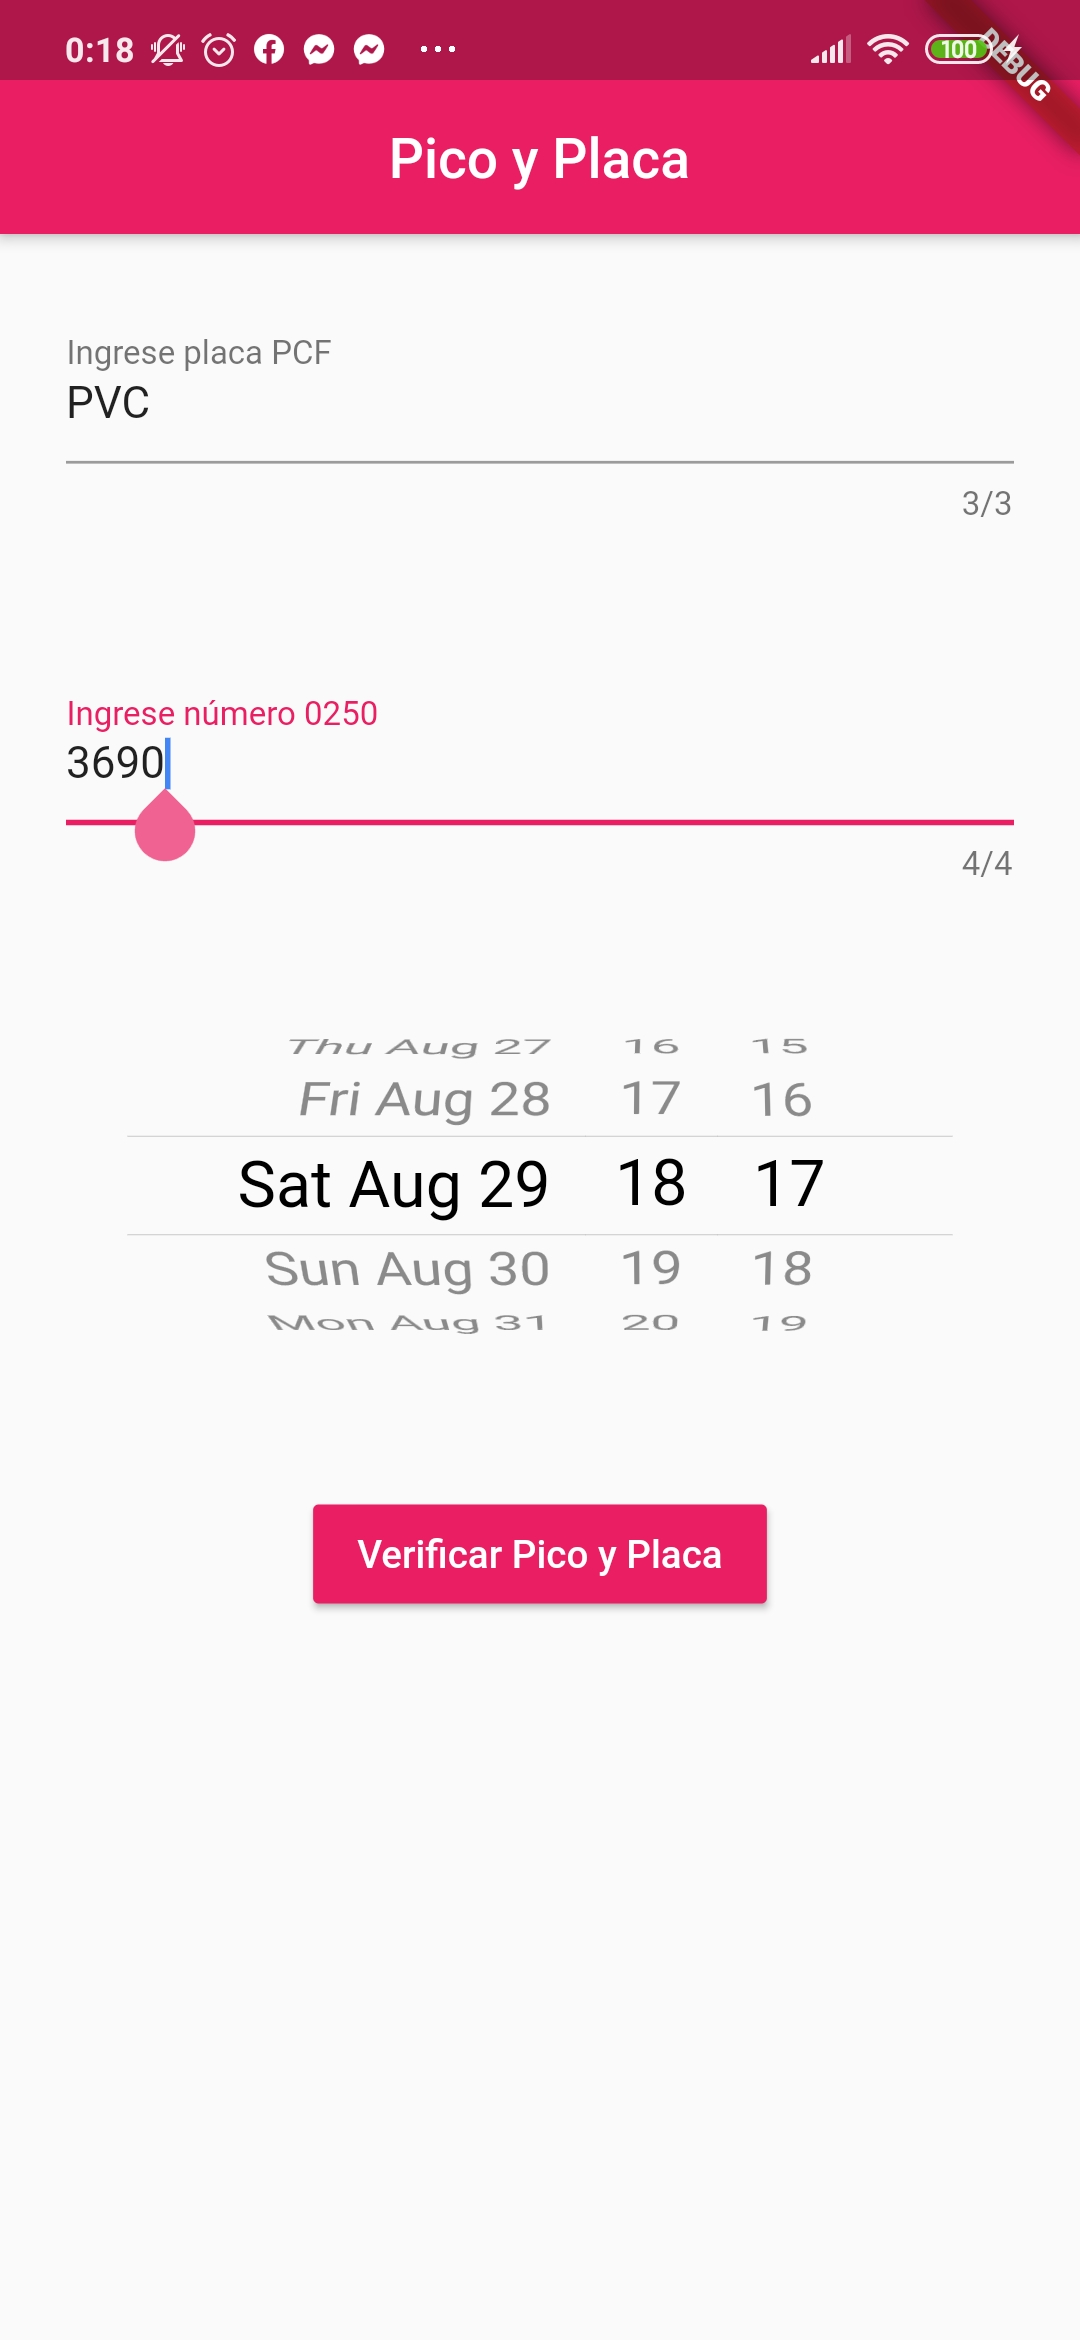
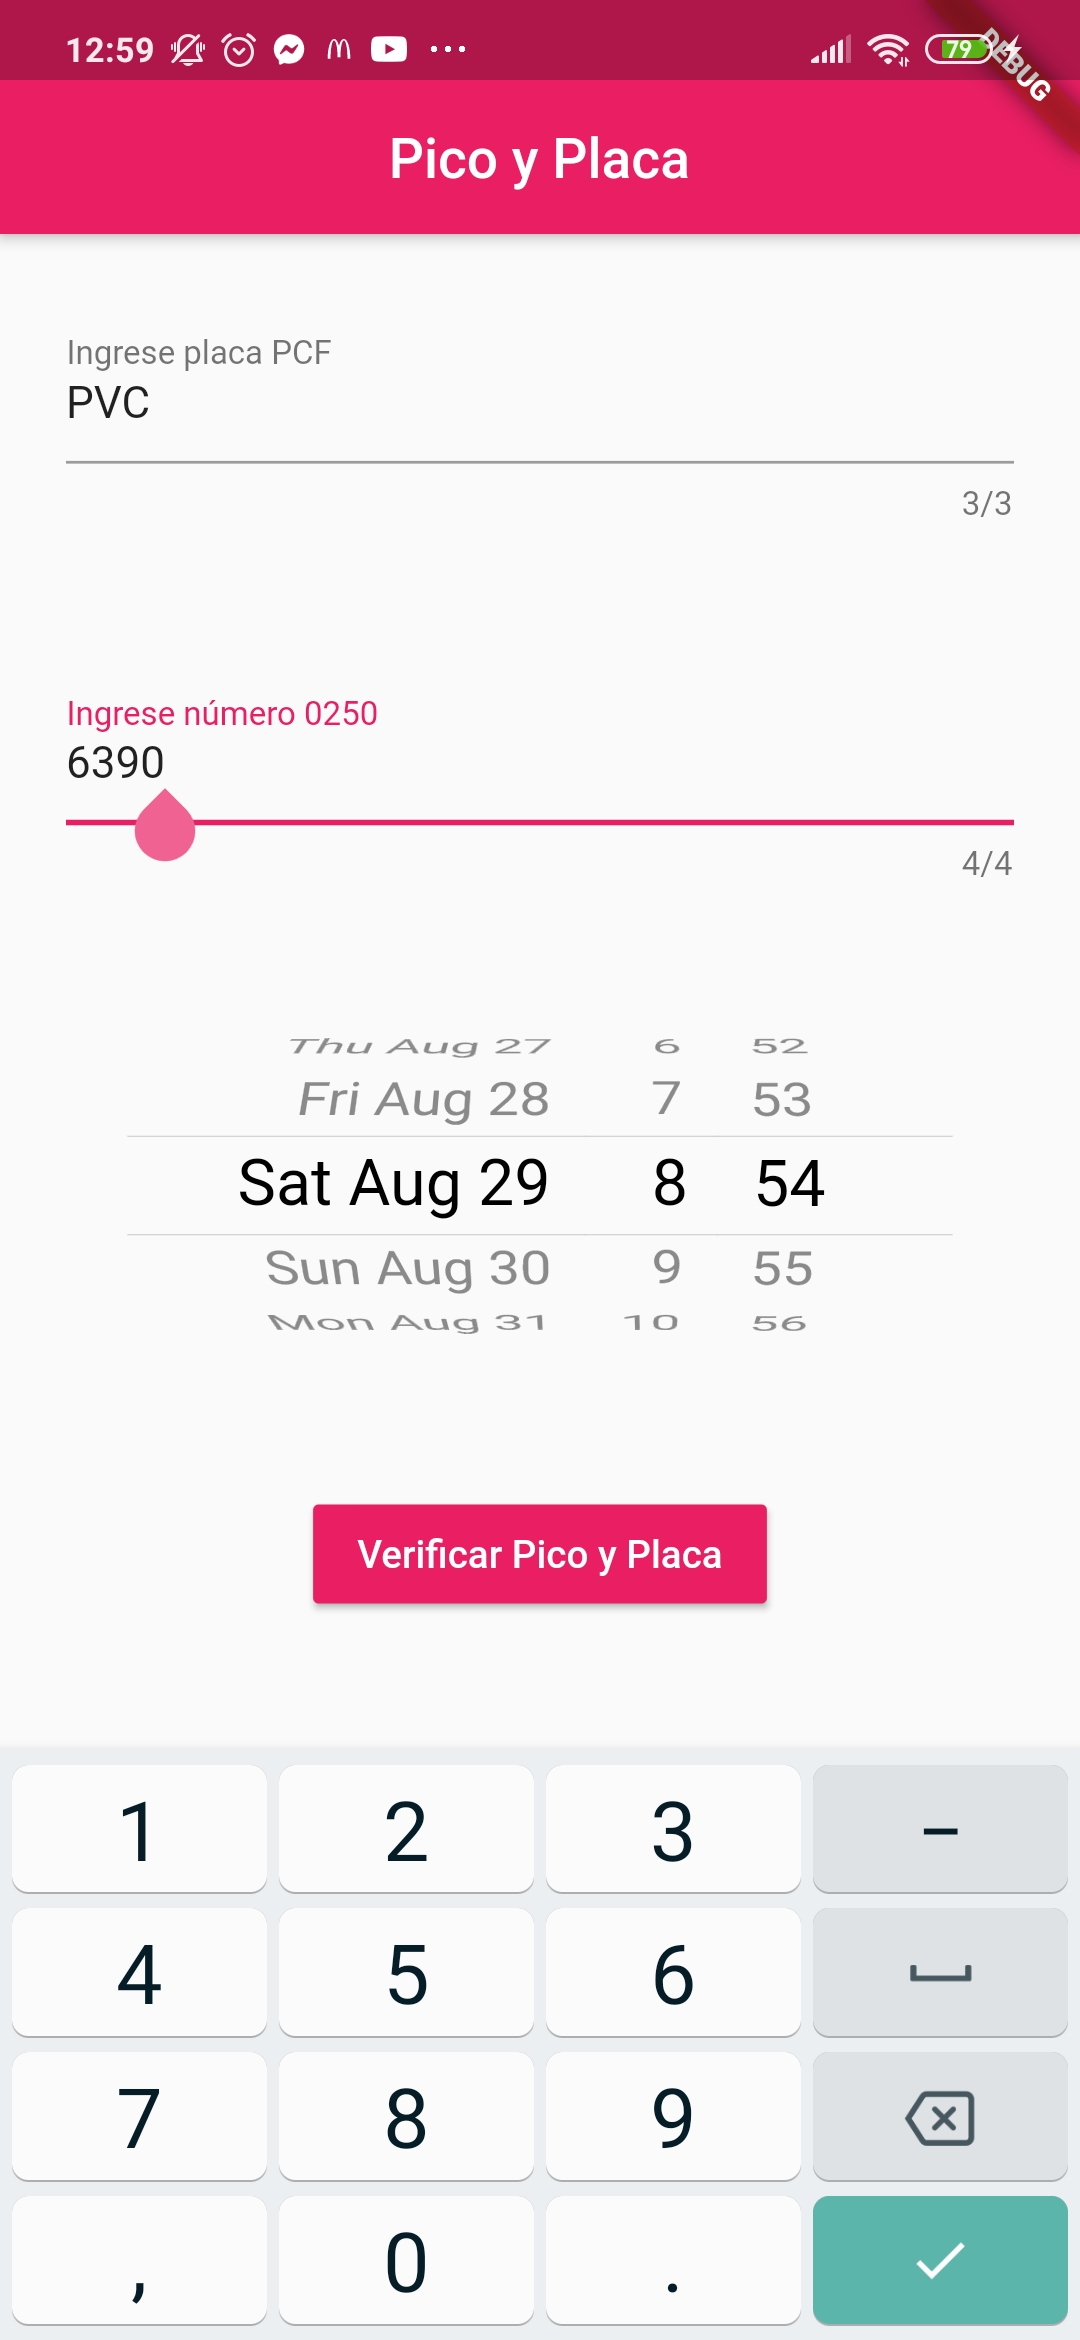
New Hours Pico Placa

diff --git a/lib/model/pico_placa_validator.dart b/lib/model/pico_placa_validator.dart
@@ -4,60 +4,70 @@ import 'package:picoplaca/common_widgets/platform_alert_dialog.dart';
 
 class PicoPlacaValidator {
   void picoPlaca(String placa, DateTime date, BuildContext context) {
-    if (date.weekday == 6 || date.weekday == 7) {
-      messageDialog(true, '', context);
-    } else if (date.hour < 5 || date.hour > 20) {
+    if ((date.weekday == 6 || date.weekday == 7) ||
+        !((date.hour >= 7) && (Duration(hours: date.hour, minutes: date.minute) <=Duration(hours: 9, minutes: 30)) 
+        ||((date.hour >= 16 &&(Duration(hours: date.hour, minutes: date.minute) <=Duration(hours: 19, minutes: 30)))))) {
       messageDialog(true, '', context);
     } else {
       switch (placa[3]) {
         case '1':
           {
-            messageDialog( date.weekday == 1 ? false : true, 'Lunes, placas 1-2', context);
+            messageDialog(
+                date.weekday == 1 ? false : true, 'Lunes, placas 1-2', context);
           }
           break;
         case '2':
           {
-            messageDialog(date.weekday == 1 ? false : true, 'Lunes, placas 1-2', context);
+            messageDialog(
+                date.weekday == 1 ? false : true, 'Lunes, placas 1-2', context);
           }
           break;
         case '3':
           {
-            messageDialog(date.weekday == 2 ? false : true,'Martes, placas 3-4', context);
+            messageDialog(date.weekday == 2 ? false : true,
+                'Martes, placas 3-4', context);
           }
           break;
         case '4':
           {
-            messageDialog(date.weekday == 2 ? false : true, 'Martes, placas 3-4', context);
+            messageDialog(date.weekday == 2 ? false : true,
+                'Martes, placas 3-4', context);
           }
           break;
         case '5':
           {
-            messageDialog(date.weekday == 3 ? false : true,'Miércoles, placas 5-6', context);
+            messageDialog(date.weekday == 3 ? false : true,
+                'Miércoles, placas 5-6', context);
           }
           break;
         case '6':
           {
-            messageDialog(date.weekday == 3 ? false : true,'Miércoles, placas 5-6', context);
+            messageDialog(date.weekday == 3 ? false : true,
+                'Miércoles, placas 5-6', context);
           }
           break;
         case '7':
           {
-            messageDialog(date.weekday == 4 ? false : true,'Jueves, placas 7-8', context);
+            messageDialog(date.weekday == 4 ? false : true,
+                'Jueves, placas 7-8', context);
           }
           break;
         case '8':
           {
-            messageDialog(date.weekday == 4 ? false : true,'Jueves, placas 7-8', context);
+            messageDialog(date.weekday == 4 ? false : true,
+                'Jueves, placas 7-8', context);
           }
           break;
         case '9':
           {
-            messageDialog(date.weekday == 5 ? false : true,'Viernes, placas 9-0', context);
+            messageDialog(date.weekday == 5 ? false : true,
+                'Viernes, placas 9-0', context);
           }
           break;
         case '0':
           {
-            messageDialog(date.weekday == 5 ? false : true,'Viernes, placas 9-0', context);
+            messageDialog(date.weekday == 5 ? false : true,
+                'Viernes, placas 9-0', context);
           }
           break;
         default:
@@ -69,8 +79,8 @@ class PicoPlacaValidator {
     PlataformAlertDialog(
             title: msg ? "No hay Pico y placa" : "Pico y Placa",
             content: msg
-                ? "Circule libremente Sábados y Domingos. \n Y toda la semana de 21 horas a 4 horas"
-                : 'Día $content, de 5:00 a 21:00',
+                ? "Circule libremente Sábados y Domingos. \n Y toda la semana de 9:30 a 16:00 horas y de 19:30 a 7:00 horas"
+                : 'Día $content, de 7:00 a 9:30 y de 16:00 a 19:30',
             defaultActionText: "Aceptar")
         .show(context);
   }
